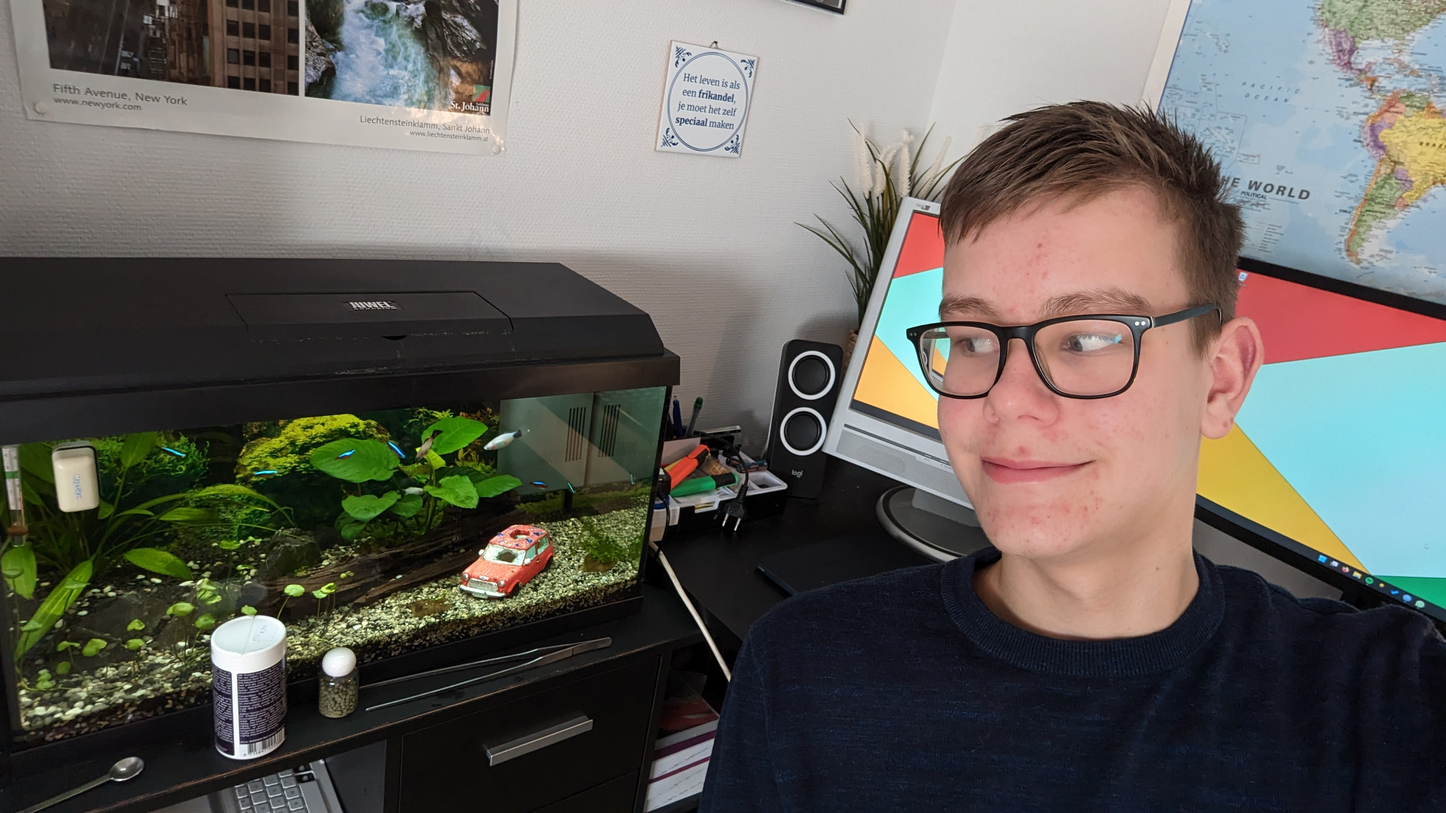
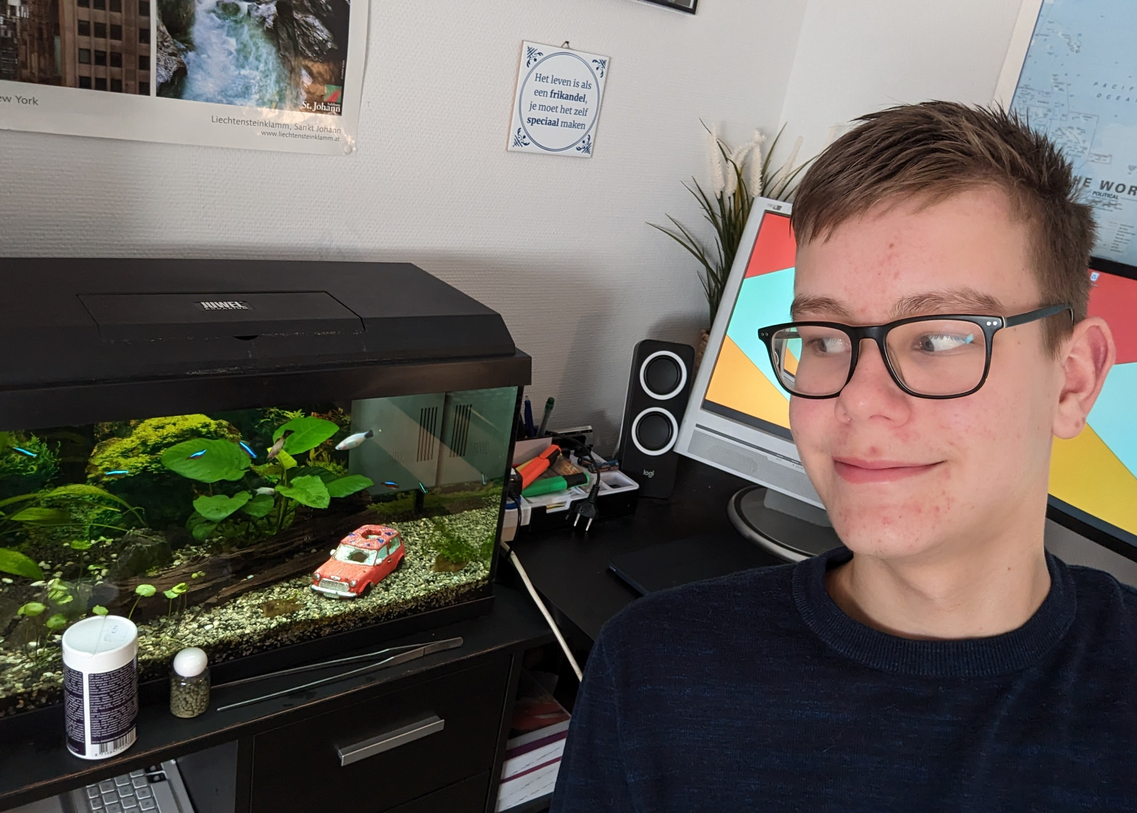
Cropped fish image to better fit in webpage.

diff --git a/src/main.tsx b/src/main.tsx
@@ -8,7 +8,6 @@ import NotFound from "./pages/NotFound.tsx";
 
 import "bootstrap/dist/css/bootstrap.min.css";
 import "./custom.scss";
-import Contact from "./pages/Contact.tsx";
 
 const router = createBrowserRouter([
   {
@@ -18,10 +17,6 @@ const router = createBrowserRouter([
       {
         index: true,
         element: <Home />,
-      },
-      {
-        path: "/contact",
-        element: <Contact />,
       },
     ],
   },
